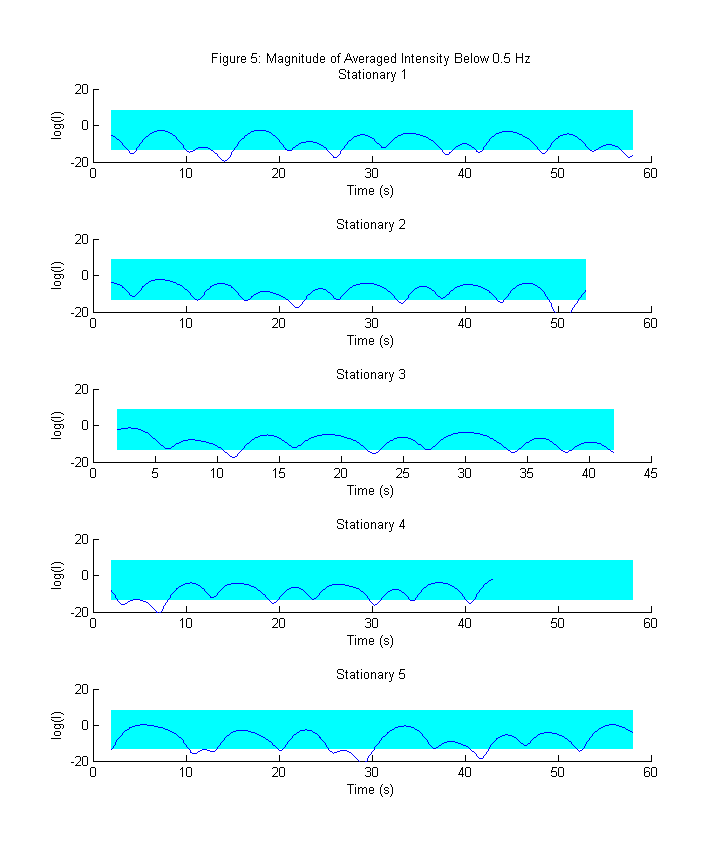
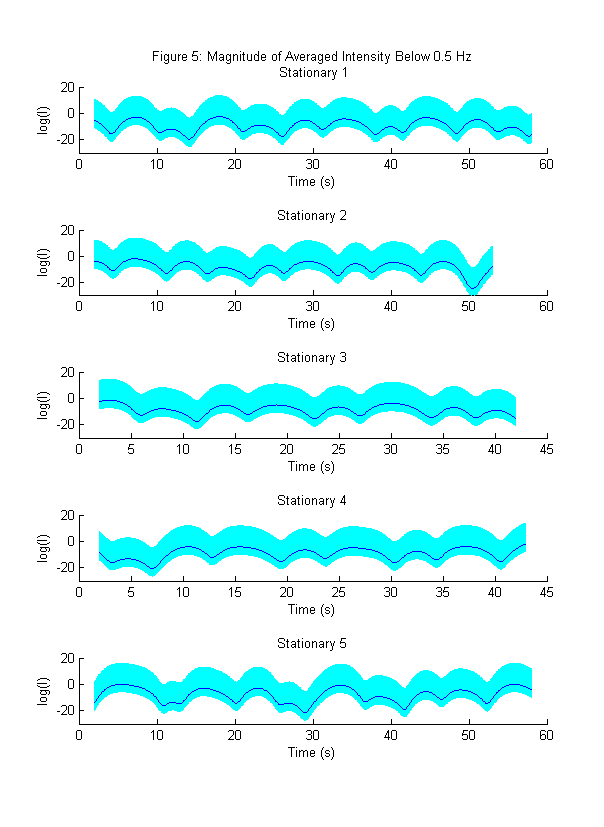
rev

diff --git a/FinalProject_Analysis.m b/FinalProject_Analysis.m
@@ -378,30 +378,20 @@ clear; clc;
     P5_t = mean(P5(1:loc5,:)); 
 
     % Calcuate error bars
-    P1_l = 10*log10(abs(mean(P1_t))/3.69);
-    P1_u = 10*log10(abs(mean(P1_t))*39.22);
-    P1_l = ones(1,size(T1,2))*P1_l;
-    P1_u = ones(1,size(T1,2))*P1_u;
+    P1_l = 10*log10(abs(P1_t)/3.69);
+    P1_u = 10*log10(abs(P1_t)*39.22);
 
-    P2_l = 10*log10(abs(mean(P2_t))/3.69);
-    P2_u = 10*log10(abs(mean(P2_t))*39.22);
-    P2_l = ones(1,size(T2,2))*P2_l;
-    P2_u = ones(1,size(T2,2))*P2_u;
+    P2_l = 10*log10(abs(P2_t)/3.69);
+    P2_u = 10*log10(abs(P2_t)*39.22);
 
-    P3_l = 10*log10(abs(mean(P3_t))/3.69);
-    P3_u = 10*log10(abs(mean(P3_t))*39.22);
-    P3_l = ones(1,size(T3,2))*P3_l;
-    P3_u = ones(1,size(T3,2))*P3_u;
+    P3_l = 10*log10(abs(P3_t)/3.69);
+    P3_u = 10*log10(abs(P3_t)*39.22);
 
-    P4_l = 10*log10(abs(mean(P4_t))/3.69);
-    P4_u = 10*log10(abs(mean(P4_t))*39.22);
-    P4_l = ones(1,size(T4,2))*P4_l;
-    P4_u = ones(1,size(T4,2))*P4_u;
+    P4_l = 10*log10(abs(P4_t)/3.69);
+    P4_u = 10*log10(abs(P4_t)*39.22);
 
-    P5_l = 10*log10(abs(mean(P5_t))/3.69);
-    P5_u = 10*log10(abs(mean(P5_t))*39.22);
-    P5_l = ones(1,size(T5,2))*P5_l;
-    P5_u = ones(1,size(T5,2))*P5_u;
+    P5_l = 10*log10(abs(P5_t)/3.69);
+    P5_u = 10*log10(abs(P5_t)*39.22);
 
     % Plot ampltiude of spectrogram below 0.5 Hz
     figure(6);
@@ -414,7 +404,7 @@ clear; clc;
     title(sprintf('Figure 5: Magnitude of Averaged Intensity Below 0.5 Hz\n Stationary 1'));
     ylabel('log(I)');
     xlabel('Time (s)');
-    ylim([-20 20]);
+    ylim([-30 20]);
     hold off;
 
     % stat 2
@@ -426,7 +416,7 @@ clear; clc;
     title('Stationary 2')
     ylabel('log(I)');
     xlabel('Time (s)');
-    ylim([-20 20]);
+    ylim([-30 20]);
     hold off;
 
     % stat 3
@@ -438,31 +428,32 @@ clear; clc;
     title('Stationary 3')
     ylabel('log(I)');
     xlabel('Time (s)');
-    ylim([-20 20]);
+    ylim([-30 20]);
     hold off;
 
     % stat 4
     subplot(5,1,4);hold on;
     P4_X = [T4,fliplr(T4)];
     P4_Y = [P4_l,fliplr(P4_u)];
-    fill(P1_X,P1_Y,'c','edgecolor','c');
+    fill(P4_X,P4_Y,'c','edgecolor','c');
     plot(T4,10*log10(abs(P4_t)));
     title('Stationary 4')
     ylabel('log(I)');
     xlabel('Time (s)');
-    ylim([-20 20]);
+    ylim([-30 20]);
+    xlim([0 45]);
     hold off;
 
     % stat 5
     subplot(5,1,5);hold on;
     P5_X = [T5,fliplr(T5)];
     P5_Y = [P5_l,fliplr(P5_u)];
-    fill(P1_X,P1_Y,'c','edgecolor','c');
+    fill(P5_X,P5_Y,'c','edgecolor','c');
     plot(T5,10*log10(abs(P5_t)));
     title('Stationary 5')
     ylabel('log(I)');
     xlabel('Time (s)');
-    ylim([-20 20]);
+    ylim([-30 20]);
     hold off;
  
 % Figure 6: B mag over Confidence level of sprectrogram peaks below 0.5 Hz
